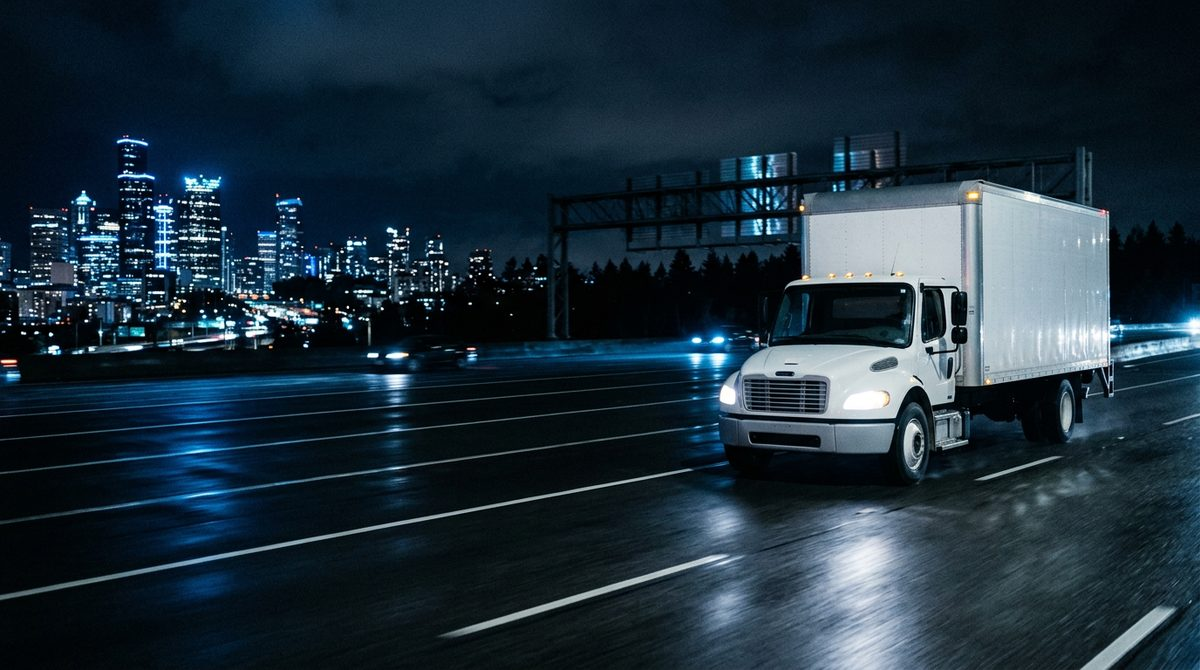
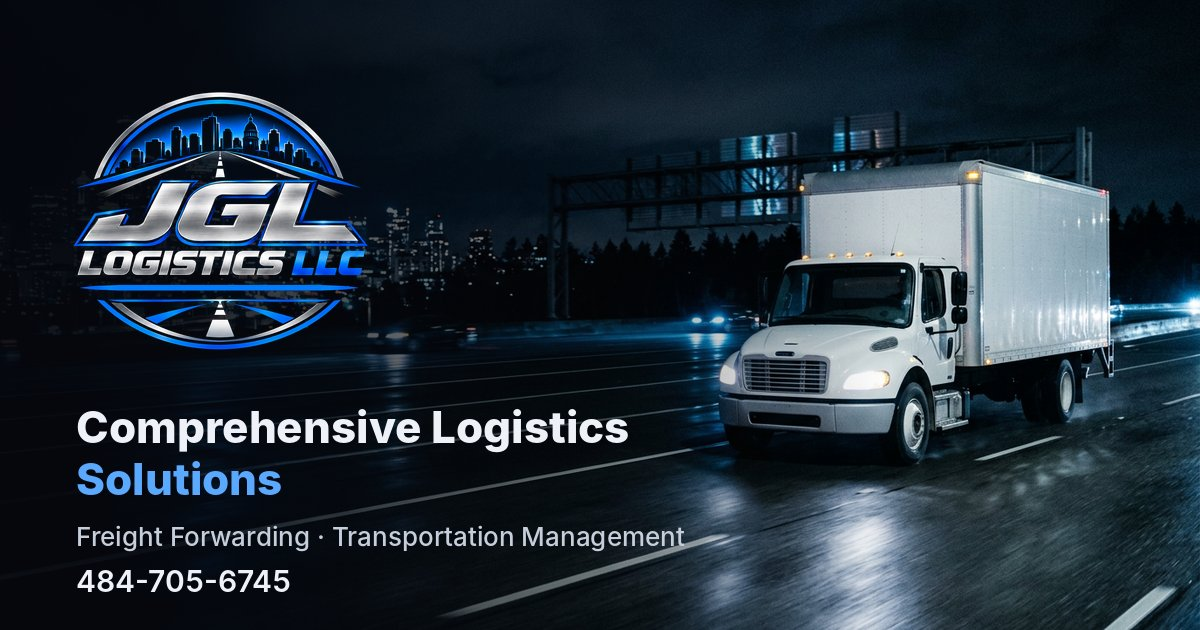
Add files via upload

diff --git a/index.html b/index.html
@@ -6,16 +6,28 @@
 <title>JGL Logistics LLC | Freight Forwarding & Transportation Management</title>
 <meta name="theme-color" content="#05070d">
 <link rel="canonical" href="https://www.jgllogisticsllc.com/">
+<meta name="robots" content="index, follow, max-image-preview:large">
+<meta name="author" content="JGL Logistics LLC">
 <link rel="icon" type="image/png" href="assets/favicon.png">
 <link rel="apple-touch-icon" href="assets/apple-touch-icon.png">
 <meta property="og:type" content="website">
-<meta property="og:title" content="JGL Logistics LLC — Comprehensive Logistics Solutions">
-<meta property="og:description" content="Expert freight forwarding and transportation management. Call 484-705-6745.">
+<meta property="og:site_name" content="JGL Logistics LLC">
+<meta property="og:locale" content="en_US">
+<meta property="og:title" content="JGL Logistics LLC | Comprehensive Logistics Solutions">
+<meta property="og:description" content="Freight forwarding and transportation management with an experienced team. Call 484-705-6745 or request a quote online.">
 <meta property="og:url" content="https://www.jgllogisticsllc.com/">
 <meta property="og:image" content="https://www.jgllogisticsllc.com/assets/share.jpg">
+<meta property="og:image:secure_url" content="https://www.jgllogisticsllc.com/assets/share.jpg">
+<meta property="og:image:type" content="image/jpeg">
+<meta property="og:image:width" content="1200">
+<meta property="og:image:height" content="630">
+<meta property="og:image:alt" content="JGL Logistics LLC logo with a white box truck on a highway at night">
 <meta name="twitter:card" content="summary_large_image">
+<meta name="twitter:title" content="JGL Logistics LLC | Comprehensive Logistics Solutions">
+<meta name="twitter:description" content="Freight forwarding and transportation management. Call 484-705-6745.">
+<meta name="twitter:image" content="https://www.jgllogisticsllc.com/assets/share.jpg">
 <link rel="preload" as="image" href="assets/hero.webp">
-<meta name="description" content="JGL Logistics LLC — comprehensive logistics solutions: freight forwarding and transportation management.">
+<meta name="description" content="JGL Logistics LLC provides freight forwarding and transportation management with an experienced team. Call 484-705-6745 or request a freight quote online.">
 <link rel="preconnect" href="https://fonts.googleapis.com">
 <link rel="preconnect" href="https://fonts.gstatic.com" crossorigin>
 <link rel="stylesheet" href="https://fonts.googleapis.com/css2?family=Saira:wght@500;600;700;800&family=Barlow:wght@400;500;600&family=JetBrains+Mono:wght@500&display=swap">
@@ -315,7 +327,7 @@ footer ul a:hover{color:var(--blue-hi)}
 @media (prefers-reduced-motion:reduce){*{animation:none!important;transition:none!important}html{scroll-behavior:auto}.rise.pre,.reach.pre .media{transform:none;opacity:1}}
 </style>
 
-<script type="application/ld+json">{"@context":"https://schema.org","@type":"LocalBusiness","name":"JGL Logistics LLC","url":"https://www.jgllogisticsllc.com/","telephone":"+1-484-705-6745","email":"info@jgllogisticsllc.com","logo":"https://www.jgllogisticsllc.com/assets/logo-jgl.png","image":"https://www.jgllogisticsllc.com/assets/share.jpg","description":"Freight forwarding and transportation management."}</script>
+<script type="application/ld+json">{"@context": "https://schema.org", "@graph": [{"@type": "Organization", "@id": "https://www.jgllogisticsllc.com/#org", "name": "JGL Logistics LLC", "alternateName": "JGL Logistics", "url": "https://www.jgllogisticsllc.com/", "logo": {"@type": "ImageObject", "url": "https://www.jgllogisticsllc.com/assets/logo-jgl.png", "width": 512, "height": 512}, "image": "https://www.jgllogisticsllc.com/assets/share.jpg", "email": "info@jgllogisticsllc.com", "telephone": "+1-484-705-6745", "description": "JGL Logistics LLC provides freight forwarding and transportation management with an experienced team.", "contactPoint": {"@type": "ContactPoint", "telephone": "+1-484-705-6745", "email": "info@jgllogisticsllc.com", "contactType": "customer service", "areaServed": "US", "availableLanguage": "English"}, "makesOffer": [{"@type": "Offer", "itemOffered": {"@type": "Service", "name": "Freight Forwarding"}}, {"@type": "Offer", "itemOffered": {"@type": "Service", "name": "Transportation Management"}}]}, {"@type": "WebSite", "@id": "https://www.jgllogisticsllc.com/#website", "url": "https://www.jgllogisticsllc.com/", "name": "JGL Logistics LLC", "publisher": {"@id": "https://www.jgllogisticsllc.com/#org"}, "inLanguage": "en-US"}, {"@type": "FAQPage", "mainEntity": [{"@type": "Question", "name": "What do you need from me for a quote?", "acceptedAnswer": {"@type": "Answer", "text": "Pickup and delivery locations, the date, how many pallets or pieces, the total weight, and what's being shipped."}}, {"@type": "Question", "name": "How do I reach your team?", "acceptedAnswer": {"@type": "Answer", "text": "Call 484-705-6745 or email info@jgllogisticsllc.com."}}]}]}</script>
 </head>
 <body>
 <header class="top">
@@ -490,7 +502,7 @@ footer ul a:hover{color:var(--blue-hi)}
       <li><a href="#about">About Us</a></li><li><a href="#services">Our Services</a></li><li><a href="#mission">Our Mission</a></li><li></li><li><a href="#contact">Contact Us</a></li>
     </ul></div>
   </div>
-  <div class="wrap legal"><span>© <span id="yr">2026</span> JGL Logistics LLC. All rights reserved.</span><span>Designed by <a class="vms" href="https://visionmakestudio.com" target="_blank" rel="noopener">VisionMake Studio</a></span></div>
+  <div class="wrap legal"><span>© <span id="yr">2026</span> JGL Logistics LLC. All rights reserved.</span><span>Designed by <a class="vms" href="https://visionmakestudio.com" target="_blank" rel="noopener">Vision Make Studio</a></span></div>
 </footer>
 
 <div class="actionbar" id="actionbar">
